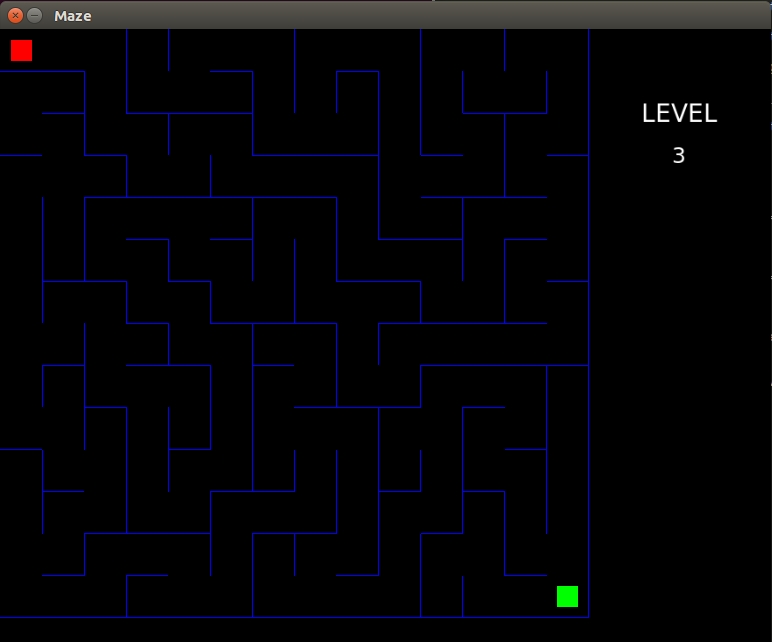
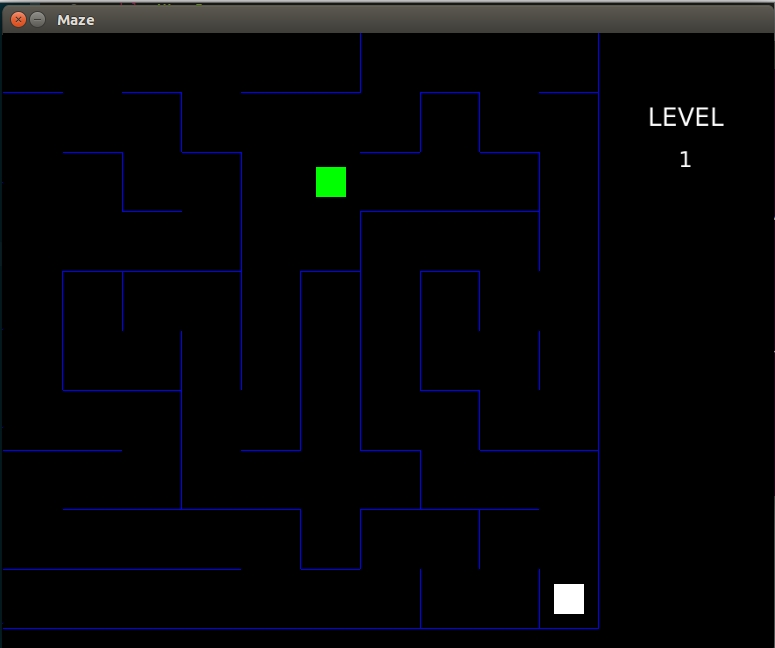
fix color

diff --git a/lib/a_maze_ing/maze.rb b/lib/a_maze_ing/maze.rb
@@ -31,7 +31,7 @@ module AMazeIng
       @stack.push(@current_cell)
 
       while @stack.length > 0 do 
-        next_cell = @current_cell.check_neigh_bors($cells)
+        next_cell = @current_cell.get_random_neighbor($cells)
         if next_cell
           remove_walls(@current_cell, next_cell)
           next_cell.visited = true
@@ -43,28 +43,40 @@ module AMazeIng
           @current_cell = @stack.pop
         end
       end
+      remove_extra_walls 
     end
 
     def remove_walls(current_cell, next_cell)
-      magic_number =  next_cell.cell_index_x - current_cell.cell_index_x
-      if magic_number == 1
-        # next cell is on the right
-        current_cell.walls[1] = next_cell.walls[3] = false
-      elsif magic_number == -1
-        # next cell is on the left
-        current_cell.walls[3] = next_cell.walls[1] = false
-      elsif magic_number == 0
-        # next cell is either on top or bottom
-        magic_number = next_cell.cell_index_y - current_cell.cell_index_y
+      if next_cell != nil
+        magic_number =  next_cell.cell_index_x - current_cell.cell_index_x
         if magic_number == 1
-          #next cell is bottom
-          current_cell.walls[2] = next_cell.walls[0] = false
-        elsif magic_number ==-1
-          #next cell is on top
-          current_cell.walls[0] = next_cell.walls[2] = false
+          # next cell is on the right
+          current_cell.walls[1] = next_cell.walls[3] = false
+        elsif magic_number == -1
+          # next cell is on the left
+          current_cell.walls[3] = next_cell.walls[1] = false
+        elsif magic_number == 0
+          # next cell is either on top or bottom
+          magic_number = next_cell.cell_index_y - current_cell.cell_index_y
+          if magic_number == 1
+            #next cell is bottom
+            current_cell.walls[2] = next_cell.walls[0] = false
+          elsif magic_number ==-1
+            #next cell is on top
+            current_cell.walls[0] = next_cell.walls[2] = false
+          end
         end
       end
     end
 
+    def remove_extra_walls
+      a_count_number = $cells.length/2/5
+      while a_count_number > 0 do
+        cell_index = rand(0..$cells.length/2)
+        # wall_index = rand(0..3)
+        remove_walls($cells[cell_index], $cells[cell_index+1])
+        a_count_number -= 1
+      end
+    end
   end
 end

diff --git a/lib/a_maze_ing/game_window.rb b/lib/a_maze_ing/game_window.rb
@@ -1,5 +1,5 @@
 #!/usr/bin/env ruby
-# credits to: http://en.wikipedia.org/wiki/Maze_generation_algorithm
+# cGREENits to: http://en.wikipedia.org/wiki/Maze_generation_algorithm
 
 require 'gosu'
 include Gosu
@@ -20,7 +20,7 @@ module AMazeIng
       if @game_mode == 1
         @infor = Infor.new
       elsif @game_mode == 2
-        @infor = Infor.new(Color::RED, Color::YELLOW)
+        @infor = Infor.new(Color::GREEN, Color::AQUA)
       end
 
     end
@@ -29,10 +29,10 @@ module AMazeIng
       @maze = Maze.new
       @maze.generate_maze
       if @game_mode == 1
-        @player = Player.new(1, 0, Color::RED)
+        @player = Player.new(1, 0, Color::GREEN)
       elsif @game_mode == 2
-        @player = Player.new(1, 0, Color::RED)
-        @player_2 = Player.new(0, 1, Color::YELLOW)
+        @player = Player.new(1, 0, Color::GREEN)
+        @player_2 = Player.new(0, 1, Color::AQUA)
       end
     end
 
@@ -41,10 +41,10 @@ module AMazeIng
       cell_index_y = cell.cell_index_y
       x = (cell_index_x * $cell_size) + $cell_size/2 - $player_size/2
       y = (cell_index_y * $cell_size) + $cell_size/2 - $player_size/2
-      draw_quad x, y, Color::GREEN,
-                x+$player_size, y, Color::GREEN,
-                x+$player_size, y+$player_size, Color::GREEN,
-                x, y+$player_size, Color::GREEN
+      draw_quad x, y, Color::WHITE,
+                x+$player_size, y, Color::WHITE,
+                x+$player_size, y+$player_size, Color::WHITE,
+                x, y+$player_size, Color::WHITE
     end
 
     def check_for_finish(player)

diff --git a/lib/a_maze_ing/cell.rb b/lib/a_maze_ing/cell.rb
@@ -13,13 +13,13 @@ module AMazeIng
 
     def cell_index(i, j, cells_length)
       if i < 0 || j < 0 || i > $cols-1 || j > $rows-1
-        return cells_length
+        return cells_length # cause the cell (neighbor) equal nil
       else
         return i + j * $cols
       end
     end
 
-    def check_neigh_bors(cells)
+    def get_random_neighbor(cells)
       @neigh_bors = Array.new
 
       top    = cells[cell_index(cell_index_x, cell_index_y - 1, cells.length)]

diff --git a/README.md b/README.md
@@ -1,6 +1,6 @@
 # AMazeIng
 
-This is a small video game about maze, create on Gosu library. You need to find the way to specific point in the maze to win the game
+This is a small video game about maze, create on Gosu library. Solve the maze yourself or play with friend.
 
 Classic mode             |  Multiplayer mode
 :-------------------------:|:-------------------------:
